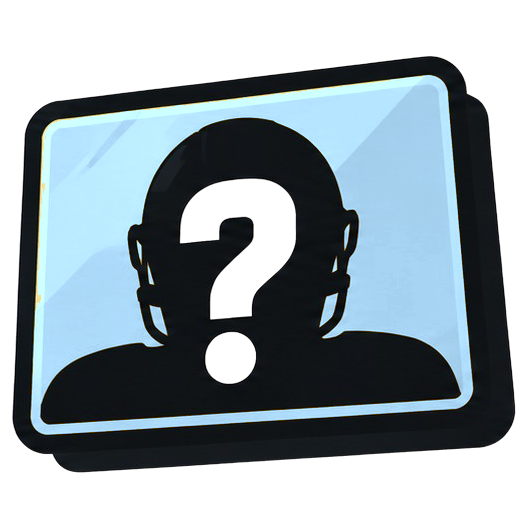
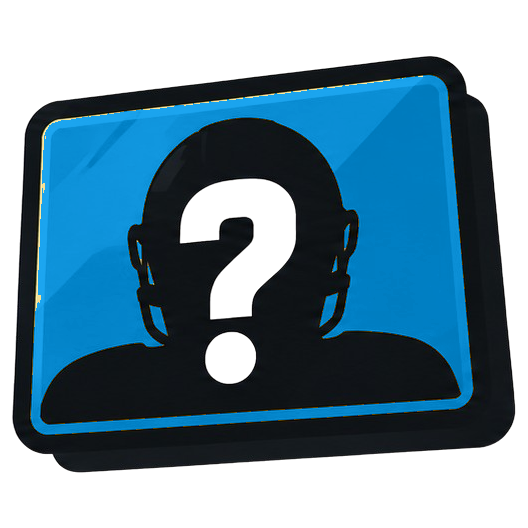
Refactor code structure for improved readability and maintainability

Changed region(s): [[0.0606, 0.1212, 0.9091, 0.8485]]

diff --git a/src/styles/global.css b/src/styles/global.css
@@ -19,10 +19,12 @@
   --redact: #1a1b22;
 
   /* One accent: pigskin orange. Everything else is warm neutral. */
-  --accent: #2f6fd6; /* primary blue (matches the logo) */
-  --accent-ink: var(--accent); /* orange text uses the signature orange too (no darker brown shade) */
-  --accent-soft: #cad4e2; /* primary blue at ~22% on paper */
-  --accent-tint: #e0e3e4; /* primary blue at ~11% on paper */
+  /* NFL Draft colors: navy #013369 (primary) and light blue #0080c5 (headshot + logo card) */
+  --accent: #013369;
+  --accent-ink: var(--accent);
+  --draft-blue: #0080c5;
+  --accent-soft: #c5dadf; /* draft light blue at ~20% on paper */
+  --accent-tint: #dde5e3; /* draft light blue at ~10% on paper */
 
   /* Status only (never decoration): a correct guess / a miss */
   --ok: #3d7a59;
@@ -47,7 +49,7 @@
   --red-soft: var(--bad-soft);
   --manila: #efe7d6;
   --page-bg: #f6f1e6;
-  --photo-gold: #a9d6f5; /* headshot backdrop: light blue (was yellow #f2b630) */
+  --photo-gold: var(--draft-blue); /* headshot backdrop: NFL Draft light blue */
 
   /* Layers */
   --z-raised: 3;
@@ -227,8 +229,33 @@ blockquote {
   text-decoration: underline;
   text-decoration-thickness: 2px;
   text-underline-offset: 3px;
+  /* One unbroken underline, even under letters that hang below the line (p, q, y) */
+  text-decoration-skip-ink: none;
   cursor: pointer;
   transition: color 0.25s var(--ease);
+}
+
+/* Start-screen credit: full sentence on wide screens, a short one-line version on phones */
+.credit-short {
+  display: none;
+}
+
+@media (max-width: 600px) {
+  .credit-long {
+    display: none;
+  }
+  .credit-short {
+    display: inline;
+  }
+  .splash__credit {
+    white-space: nowrap;
+    font-size: min(1rem, 4.2vw) !important;
+  }
+}
+
+.footer__credit a,
+.splash__credit a {
+  text-decoration-skip-ink: none;
 }
 
 @media (hover: hover) {
@@ -364,7 +391,7 @@ blockquote {
   }
 
   .btn--primary:hover {
-    background: #2862c2;
+    background: #0b4688;
   }
 
   .btn--ghost:hover {
@@ -389,12 +416,12 @@ blockquote {
 
 .btn--primary {
   background: var(--orange);
-  color: var(--ink);
+  color: #fff;
 }
 
 .btn--primary .btn__orb {
-  background: var(--ink);
-  color: #fff;
+  background: #fff;
+  color: var(--accent);
 }
 
 .btn--ghost {
@@ -2994,6 +3021,10 @@ td.board-table__num {
   .footer__credit {
     order: -1;
   }
+  /* Phones: credit, then the midnight note, then Request a prospect last */
+  .footer__request {
+    order: 1;
+  }
 }
 
 .footer__credit {
@@ -3416,19 +3447,3 @@ td.board-table__num {
 }
 
 /* Text shown before the game's JavaScript loads (for search engines); the game replaces it. */
-.seo-intro {
-  max-width: 40rem;
-  margin: 0 auto;
-  padding: 4rem 1.25rem;
-  color: var(--ink-2);
-  line-height: 1.6;
-}
-.seo-intro h1 {
-  margin-bottom: 1rem;
-  font-size: 1.6rem;
-  line-height: 1.2;
-  color: var(--ink);
-}
-.seo-intro p + p {
-  margin-top: 0.75rem;
-}

diff --git a/src/hooks/useGame.ts b/src/hooks/useGame.ts
@@ -46,7 +46,9 @@ function createPreviewSession(puzzleNumber: number): Session {
 }
 
 export function useGame() {
-  const [todayPuzzleNumber] = useState(() => getPuzzleNumber());
+  // Today's puzzle number. Re-checked when the player goes back to today, so a tab left open past
+  // midnight Eastern moves on to the new prospect.
+  const [todayPuzzleNumber, setTodayPuzzleNumber] = useState(() => getPuzzleNumber());
 
   const [session, setSession] = useState<Session>(() => {
     const preview = getPreviewPuzzleFromUrl();
@@ -155,9 +157,12 @@ export function useGame() {
   );
 
   const returnToDaily = useCallback(() => {
+    const today = getPuzzleNumber();
+    setTodayPuzzleNumber(today);
+    setNewPuzzleAvailable(false);
     setPuzzleUrlParam(null);
-    replaceSession(loadDailySession(todayPuzzleNumber));
-  }, [replaceSession, todayPuzzleNumber]);
+    replaceSession(loadDailySession(today));
+  }, [replaceSession]);
 
   /** Replace stats wholesale (used when syncing a signed-in player's stats from another device). */
   const replaceStats = useCallback((next: Stats) => {

diff --git a/index.html b/index.html
@@ -28,6 +28,11 @@
     <link rel="icon" type="image/png" href="/mark.png" />
     <link rel="apple-touch-icon" href="/mark.png" />
     <link rel="manifest" href="/site.webmanifest" />
+    <!-- Search-engine fallback text stays in the HTML but never flashes on screen -->
+    <style>
+      html { background: #f6f1e6; }
+      .seo-intro { position: absolute; width: 1px; height: 1px; overflow: hidden; clip: rect(0 0 0 0); white-space: nowrap; }
+    </style>
 
     <link rel="preconnect" href="https://api.fontshare.com" crossorigin />
     <link rel="preconnect" href="https://fonts.googleapis.com" />

diff --git a/src/components/SplashScreen.tsx b/src/components/SplashScreen.tsx
@@ -42,7 +42,8 @@ export function SplashScreen({ prospect, puzzleNumber, leaving, onPlay }: Props)
       </div>
 
       <p className="splash__credit">
-        All scouting report excerpts are sourced from{' '}
+        <span className="credit-long">All scouting report excerpts are sourced from</span>
+        <span className="credit-short">Scouting quotes from</span>{' '}
         <a href={EXCERPT_SOURCE_URL} target="_blank" rel="noopener noreferrer">
           {DEFAULT_EXCERPT_SOURCE}
         </a>

diff --git a/src/components/Confetti.tsx b/src/components/Confetti.tsx
@@ -7,7 +7,7 @@ interface Props {
 }
 
 /* Single-accent palette: pigskin orange, its soft tint, ink and paper */
-const COLORS = ['#2f6fd6', '#2f6fd6', '#cad4e2', '#1a1b22', '#fffdf9', '#efe7d6'];
+const COLORS = ['#013369', '#0080c5', '#c5dadf', '#1a1b22', '#fffdf9', '#efe7d6'];
 
 /** Lightweight CSS confetti — no canvas, auto-cleans after the animation. */
 export function Confetti({ fire, count = 120 }: Props) {

diff --git a/src/App.tsx b/src/App.tsx
@@ -293,7 +293,8 @@ export default function App() {
   const handleLogo = useCallback(() => {
     setOpenMenu(null);
     setConfetti(0);
-    if (game.mode !== 'daily') game.returnToDaily();
+    // Always reload today's game: leaves Film room, and picks up a new day if midnight has passed
+    game.returnToDaily();
     setSplash('open');
     window.scrollTo({ top: 0 });
   }, [game]);
